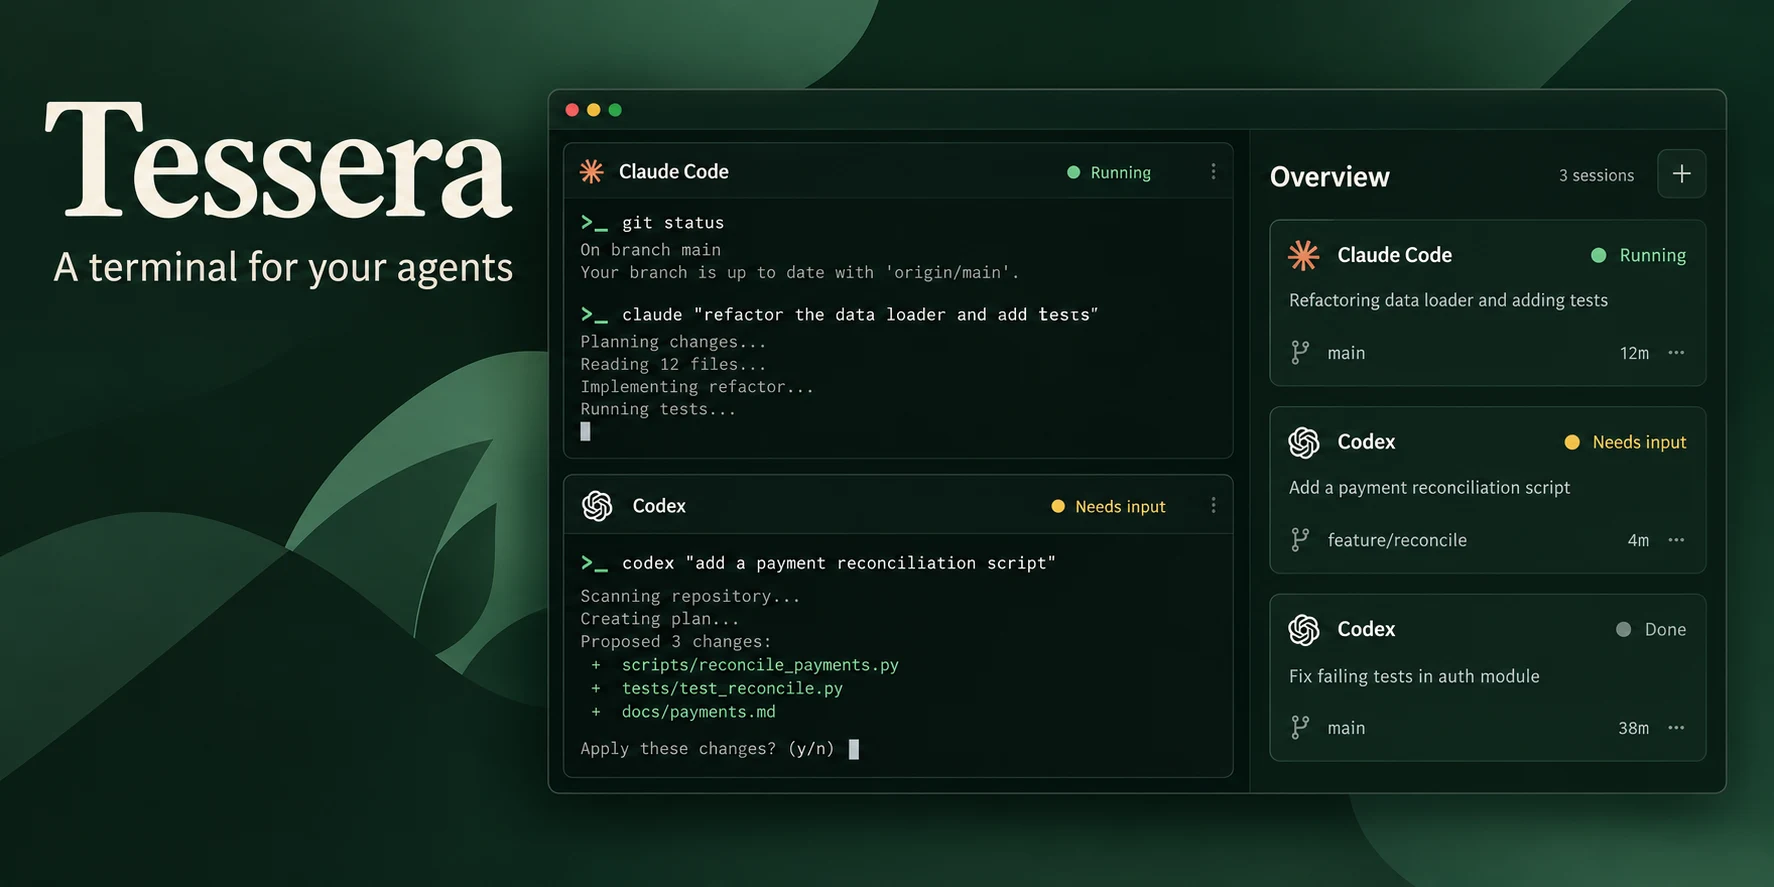
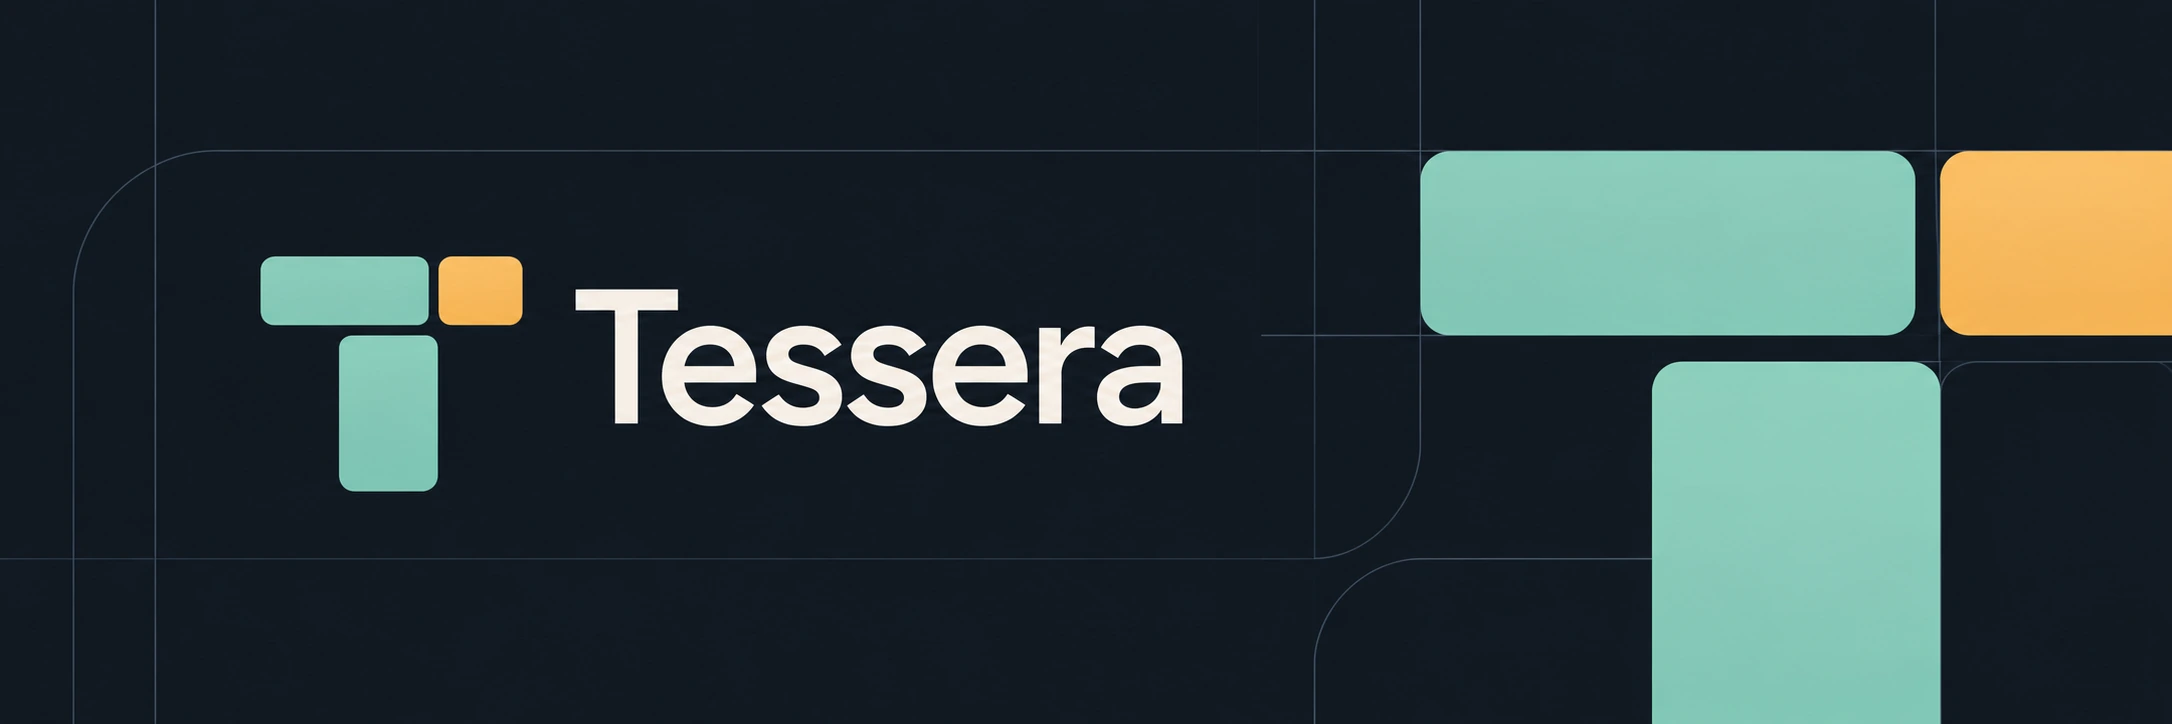
feat: refresh Tessera portfolio identity and 0.5.0 features (#65)

diff --git a/styles/site.css b/styles/site.css
@@ -110,13 +110,14 @@ body.site-page { margin: 0; }
 .site-shell .projects-jump { display: inline-block; margin-top: .625rem; font-weight: 600; }
 .site-shell .project-grid { display: grid; grid-template-columns: repeat(2, minmax(0, 1fr)); gap: 1.5rem; margin: 1.25rem 0 2.5rem; scroll-margin-top: 1.25rem; }
 .site-shell .project-card { --project-accent: #e3abd3; display: flex; flex-direction: column; overflow: hidden; border: 1px solid #53405f; border-top: 4px solid var(--project-accent); border-radius: 1rem; background: #19132b; text-align: left; }
+.site-shell [data-project="tessera"] { --project-accent: #91d0bd; }
+.site-shell [data-project="tessera"] .project-preview { object-fit: cover; object-position: left center; background: #12171e; }
 .site-shell [data-project="prctrl"] { --project-accent: #95bc91; }
 .site-shell [data-project="prctrl"] .project-preview { background: #fdfbf3; }
 .site-shell [data-project="cabane"] { --project-accent: #efc185; }
 .site-shell .project-preview { display: block; width: 100%; height: auto; aspect-ratio: 3 / 2; object-fit: contain; background: #201923; }
 .site-shell [data-project="cabane"] .project-preview { background: #f4eadb; }
 .site-shell .project-card .project-preview { aspect-ratio: 2 / 1; }
-.site-shell .project-card[data-project="tessera"] .project-preview { object-fit: cover; object-position: center; }
 .site-shell .project-body { display: flex; flex: 1; flex-direction: column; align-items: flex-start; padding: 1.5rem; overflow-wrap: anywhere; }
 .site-shell .project-body h3 { margin: 0 0 .75rem; font-size: 1.5rem; font-weight: 700; color: var(--project-accent); }
 .site-shell .project-tagline { font-weight: 600; }

diff --git a/crates/content/src/homepage.rs b/crates/content/src/homepage.rs
@@ -41,20 +41,20 @@ pub const HOMEPAGE: Homepage = Homepage {
             slug: "tessera",
             heading_id: "tessera-title",
             title: "Tessera",
-            tagline: "Your terminals. Your agents. One Overview.",
-            description: "A native terminal workspace built in Rust for Claude Code and Codex. Arrange shells in resizable panes, search workspaces and commands, and use Overview to see what’s running, what needs attention, and what’s ready to review. Jump straight back into the live terminal to act.",
+            tagline: "Your terminals. Your specs. Your agents.",
+            description: "A native terminal workspace built in Rust for Claude Code and Codex. Arrange shells in resizable panes and see which sessions need attention in Overview. Prepare work on a local specification board, save revisions, and launch an agent with the exact scope you chose. Return to its terminal to act or review the retained output.",
             tags: &["Rust", "macOS & Linux", "Claude Code & Codex"],
             tags_label: "Tessera technologies and integrations",
-            note: Some("Version 0.3.0 · Intel and ARM64 · One-command installation."),
+            note: Some("Version 0.5.0 · Intel and ARM64 · One-command installation."),
             destination: Link {
                 label: "Explore on GitHub →",
                 url: "https://github.com/JeremySomsouk/tessera",
             },
             image: Image {
                 src: "/images/tessera-banner.webp",
-                alt: "Illustration of Tessera terminal panes and a shared Overview of Claude Code and Codex sessions",
-                width: 1774,
-                height: 887,
+                alt: "Tessera’s mint and amber tiled T identity on an ink-blue terminal pane mosaic",
+                width: 2172,
+                height: 724,
             },
         },
         ProjectMetadata {
